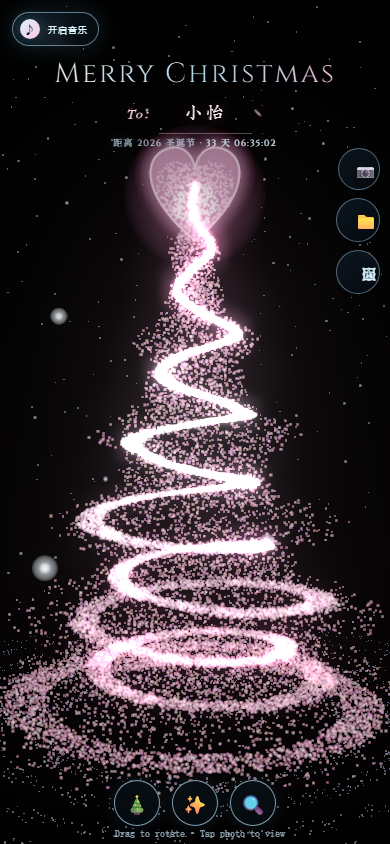
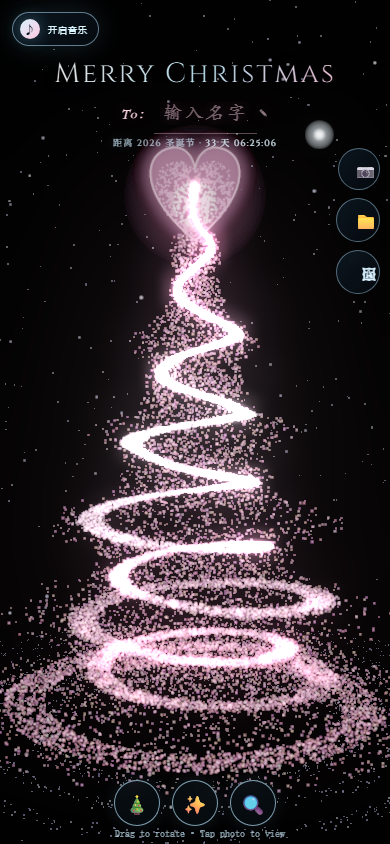
copy: clear default recipient name

diff --git a/christmas_tree_touch&gesture.html b/christmas_tree_touch&gesture.html
@@ -113,7 +113,7 @@
         }
 
         .to-line .recipient-name {
-            width: 4.4em;
+            width: 4.8em;
             min-width: 2.4em;
             max-width: 10em;
             min-height: 1.8em;
@@ -547,7 +547,7 @@
                 class="recipient-name"
                 id="recipient-name-input"
                 type="text"
-                value="小怡"
+                value=""
                 maxlength="20"
                 autocomplete="off"
                 enterkeyhint="done"
@@ -1603,12 +1603,15 @@
             input.value = (
                 savedName ||
                 input.value ||
-                "小怡"
+                ""
             ).trim().slice(0, 20);
 
             const fitInputWidth = () => {
                 const length = Array.from(input.value).length;
-                const width = Math.max(2.4, Math.min(10, 2.4 + length * 0.92));
+                const width =
+                    length === 0
+                        ? 4.8
+                        : Math.max(2.4, Math.min(10, 2.4 + length * 0.92));
                 input.style.width = width + "em";
             };
 

diff --git a/README.md b/README.md
@@ -29,7 +29,7 @@ https://ace5447180.github.io/gesture-Christmas_tree-3d_with_photo/christmas_tree
 
 * **粒子特效**：数万颗银白、青蓝与浅紫粒子组成蓬松螺旋树冠，地面带有同心光环，空中飘浮蓝色星屑。
 * **心形展开**：点击底部星芒按钮、双击屏幕或使用张开手掌手势，所有树粒子会按参考图轮廓汇聚成可旋转、前后鼓起的粉色实心 3D 爱心。
-* **专属祝福**：页面顶部完整显示 “Merry Christmas”，并标注 “To：小怡”。
+* **专属祝福**：页面顶部完整显示 “Merry Christmas”，并提供可编辑的 `To：` 收件人名字。
 * **名字编辑**：点击 `To` 后的名字即可修改，内容会自动保存并同步到 `?to=名字` 分享参数。
 * **隔空控物**：不需要鼠标，对着摄像头挥挥手就能控制它（感觉像奇异博士）。
 * **摄像头优先**：点击摄像头按钮后会先请求权限并显示画面，手势模型在后台加载；模型不可用时仍可继续使用触控。
